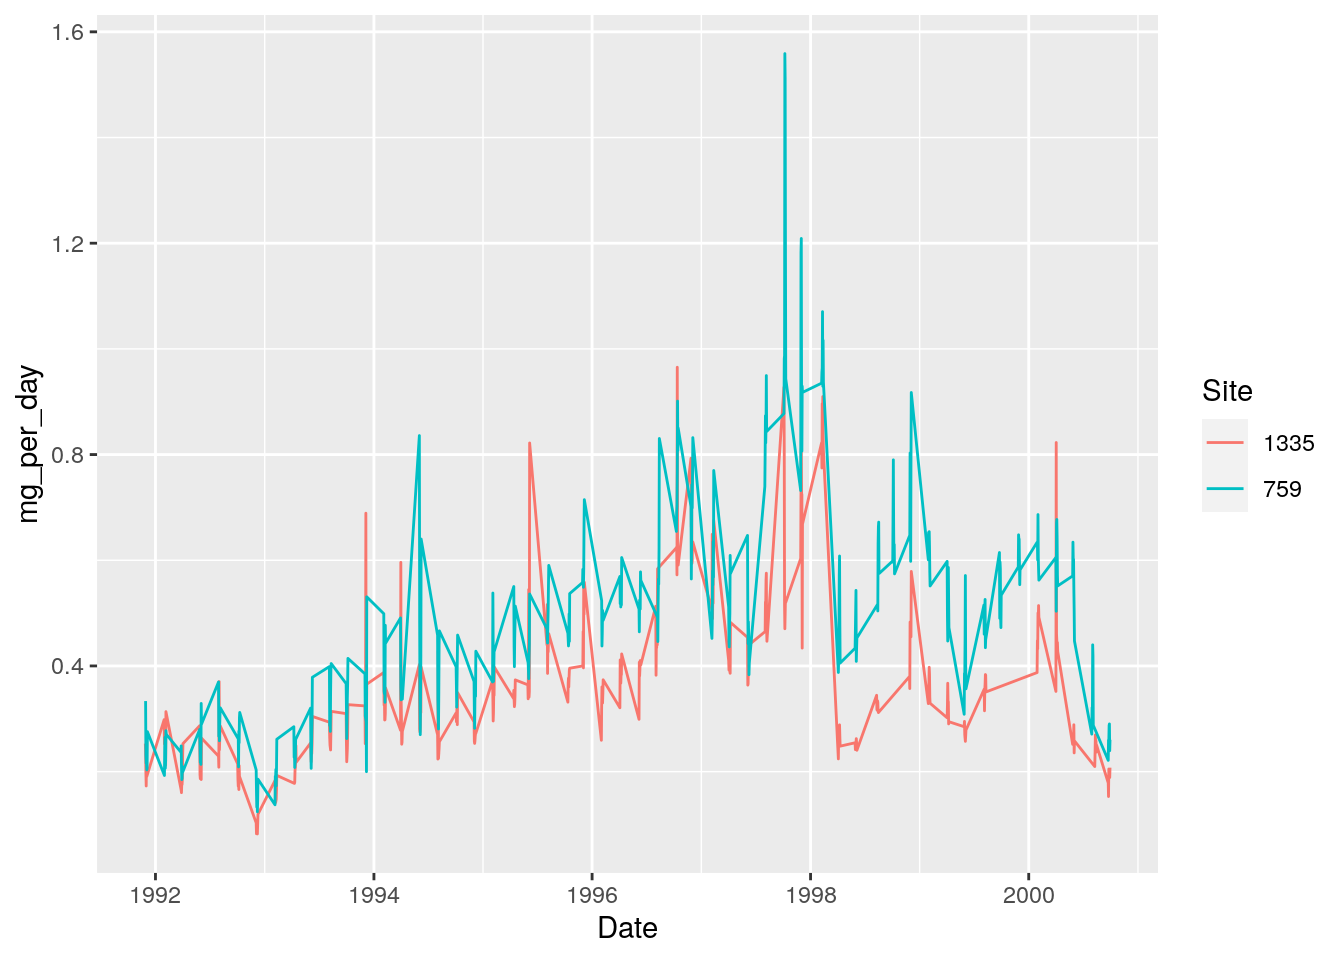
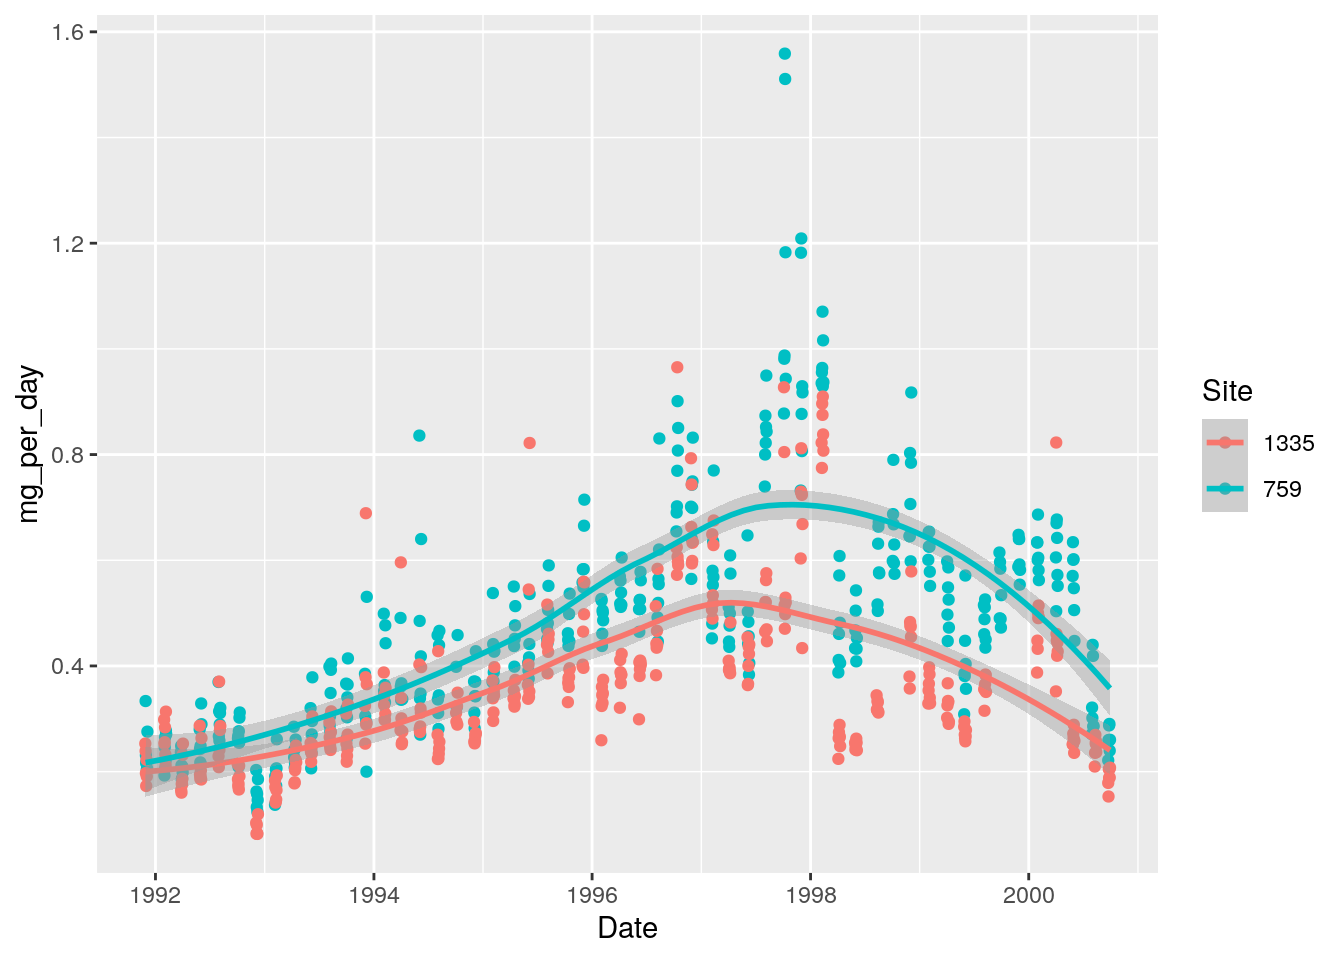
expand on visualisation; fix typos

diff --git a/content/post/2020-12-01-part1-working-timeseries-data/index.md b/content/post/2020-12-01-part1-working-timeseries-data/index.md
@@ -150,7 +150,7 @@ We could map a function by simply providing the name of the function. However, b
 
 ## Data cleaning
 
-There are a few issues with the dataset. First of all, there are variations in how the compoud is named. We can repalce the value in the first column with a simpler, consistent one:
+There are a few issues with the dataset. First of all, there are variations in how the compound is named. We can replace the value in the first column with a simpler, consistent one:
 
 
 ```r
@@ -158,7 +158,7 @@ There are a few issues with the dataset. First of all, there are variations in h
 analytes$Analyte <- "x"
 ```
 
-Our columns names are not the most reusable names for R. Better names do not contain spaces or special characters like `/`. dplyr's `rename()` function is very handy for that:
+Our column names are not the most reusable names for R. Better names do not contain spaces or special characters like `/`. dplyr's `rename()` function is very handy for that:
 
 
 ```r
@@ -166,7 +166,7 @@ library(dplyr)
 analytes <- rename(analytes, Site = 1, Date = 3, mg_per_day = 4)
 ```
 
-Finally, the Site column is stored as numeric data. If we plot it as it is, R will consider it to be a contiuous variable, when it really should be discrete. Let's fix that with dplyr's `mutate()` function:
+Finally, the Site column is stored as numeric data. If we plot it as it is, R will consider it to be a continuous variable, when it really should be discrete. Let's fix that with dplyr's `mutate()` function:
 
 
 ```r
@@ -187,34 +187,65 @@ write.csv(analytes, "data/analytes_data_clean.csv",
 
 > `write.csv()` will by default include a column of row names in the exported file, which are the row numbers if no row names have been assigned. That's not usually something we want, so we can turn it off with `row.names = FALSE`
 
-## Quick viz of the data
+## Visualisation with ggplot2
+
+At this stage, we can start exploring visually. For a lot of R users, the go-to package for data visualisation is ggplot2, which is part of the Tidyverse.
+
+For a ggplot2 visualisation, rememember that we usually need this three essential elements:
+
+* the dataset
+* the mapping of aesthetic elements to variables in the dataset
+* the geometry used to represent the data
+
+Let's try a first timeline visualisation with a line plot:
 
 
 ```r
 library(ggplot2)
-ggplot(analytes, 
-       aes(x = Date, y = mg_per_day, colour = Site)) +
-  geom_line()
+ggplot(analytes,             # data
+       aes(x = Date,         # mapping of aesthetics
+           y = mg_per_day,
+           colour = Site)) + # (separate by site)
+  geom_line()                # geometry
+```
+
+<img src="{{< blogdown/postref >}}index_files/figure-html/simple viz-1.png" width="672" />
+
+A simple line plot is not great here, because of the periodicity: there were bursts of sampling, several days in a row, and then nothing for a while. Which results in a fine, daily resolution for small periods of time, and a straight line joining these periods of time.
+
+We might want to "smoothen" that line, hoping to get a better idea of the trend, keeping the original data as points in the background:
+
+
+```r
+ggplot(analytes, aes(x = Date, y = mg_per_day, colour = Site)) +
+  geom_point() +
+  geom_smooth()
+## `geom_smooth()` using method = 'loess' and formula 'y ~ x'
 ```
 
 <img src="{{< blogdown/postref >}}index_files/figure-html/unnamed-chunk-5-1.png" width="672" />
 
-```r
-# line plot is not great because of the periodicity (bursts of sampling)
+The trend lines only give a very general trend. What if we make it follow the points more closely?
 
-# smooth line that doesn't smooth too much:
+
+```r
 ggplot(analytes, aes(x = Date, y = mg_per_day, colour = Site)) +
-  geom_point(size = 0.3) +
-  geom_smooth(span = 0.05)
+  geom_point(size = 0.3) + # smaller points
+  geom_smooth(span = 0.05) # follow the data more closely
 ## `geom_smooth()` using method = 'loess' and formula 'y ~ x'
 ```
 
-<img src="{{< blogdown/postref >}}index_files/figure-html/unnamed-chunk-5-2.png" width="672" />
+<img src="{{< blogdown/postref >}}index_files/figure-html/unnamed-chunk-6-1.png" width="672" />
 
-```r
-# careful: creates artificial dip in site 1335 to fit the data.
-# confidence interval shows uncertainty.
-```
+With the method used, we end up with an increased uncertainty (the shaded area around the curves). It also creates artificial "dips" to fit the data, for example close to the beginning of 2000 for the site 1335.
+
+## Summarise the data
+
+In this case, because we have sampling points for whole weeks, we can summarise that weekly data as a weekly average.
+
+...
+
+
 
 
 ```r
